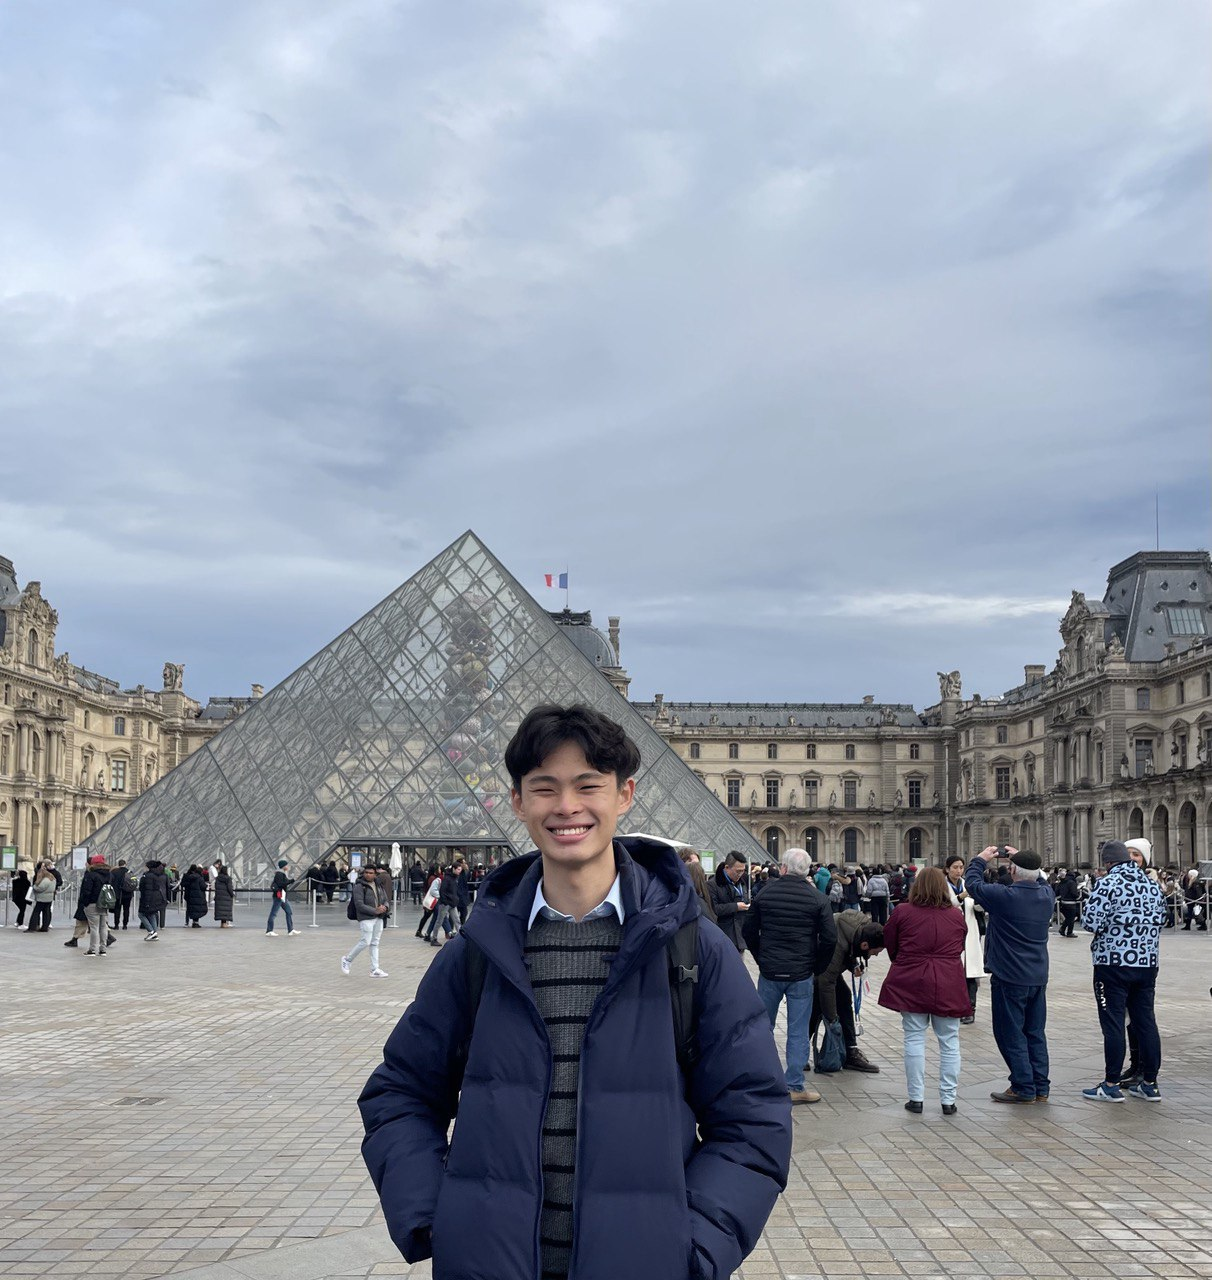
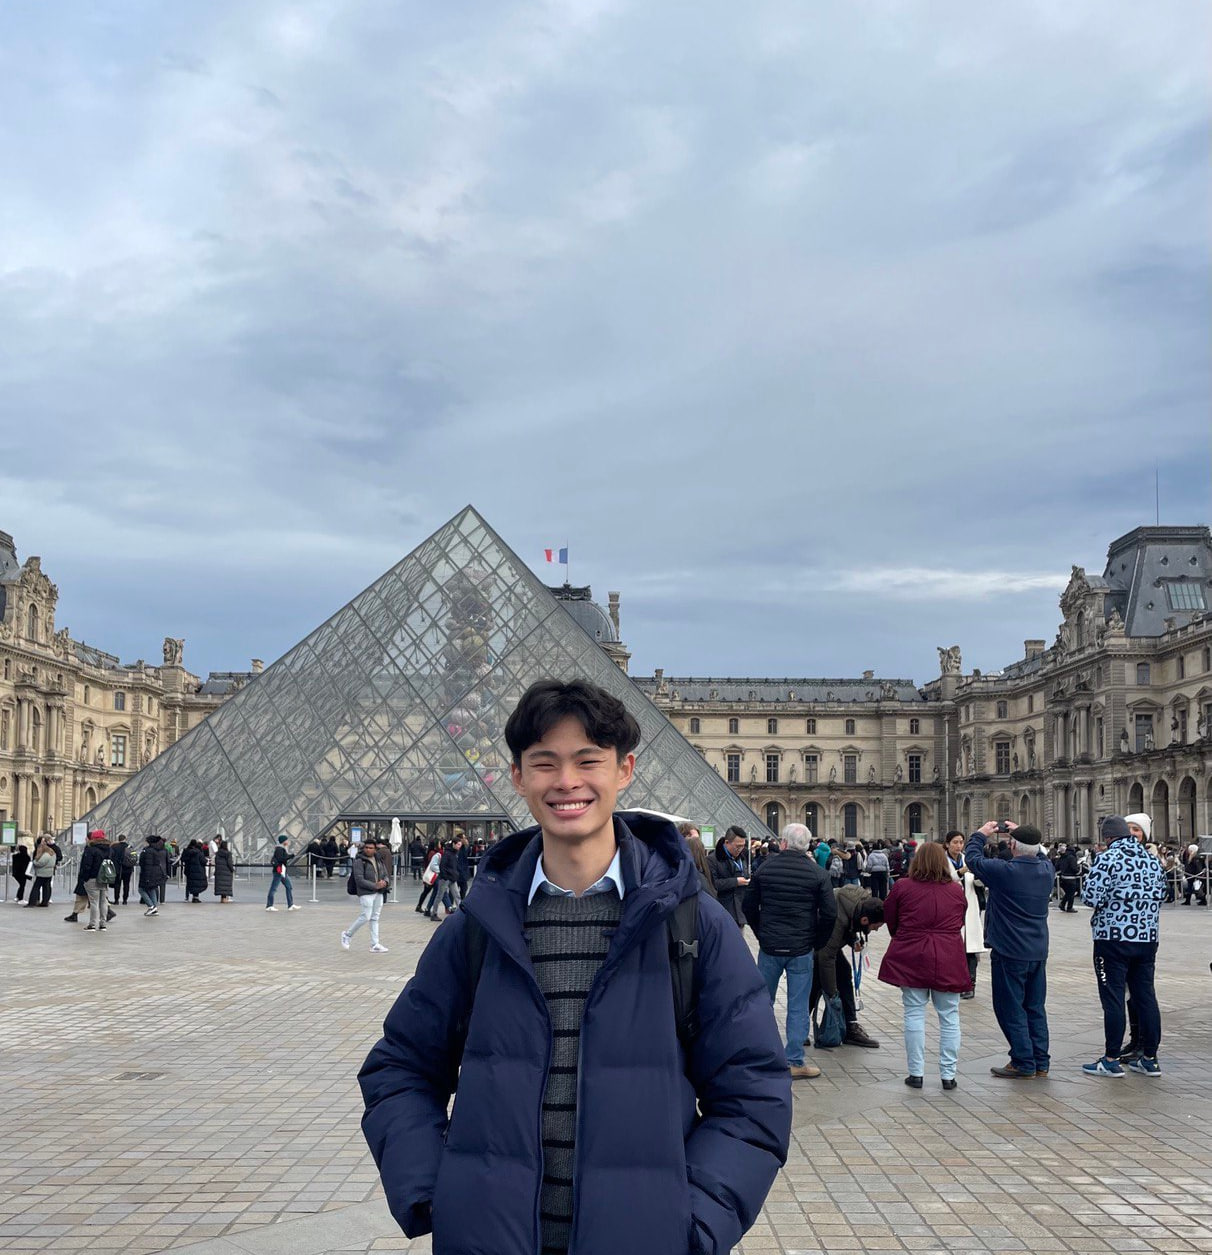
updated pictures in about us page

diff --git a/foodManager/src/components/Pages/AboutPage.vue b/foodManager/src/components/Pages/AboutPage.vue
@@ -59,7 +59,7 @@ export default {
           name: "Seah Ding Xuan", 
           position: "Developer", 
           bio: "Ding Xuan has a proven track record of creating websites and developing an inventory management system for many organizations and is dedicated to supporting our mission.",
-          image: "https://via.placeholder.com/150",
+          image: "../src/assets/dingxuan.jpg",
         }, 
         {
           name: "Lim Yi Han", 
